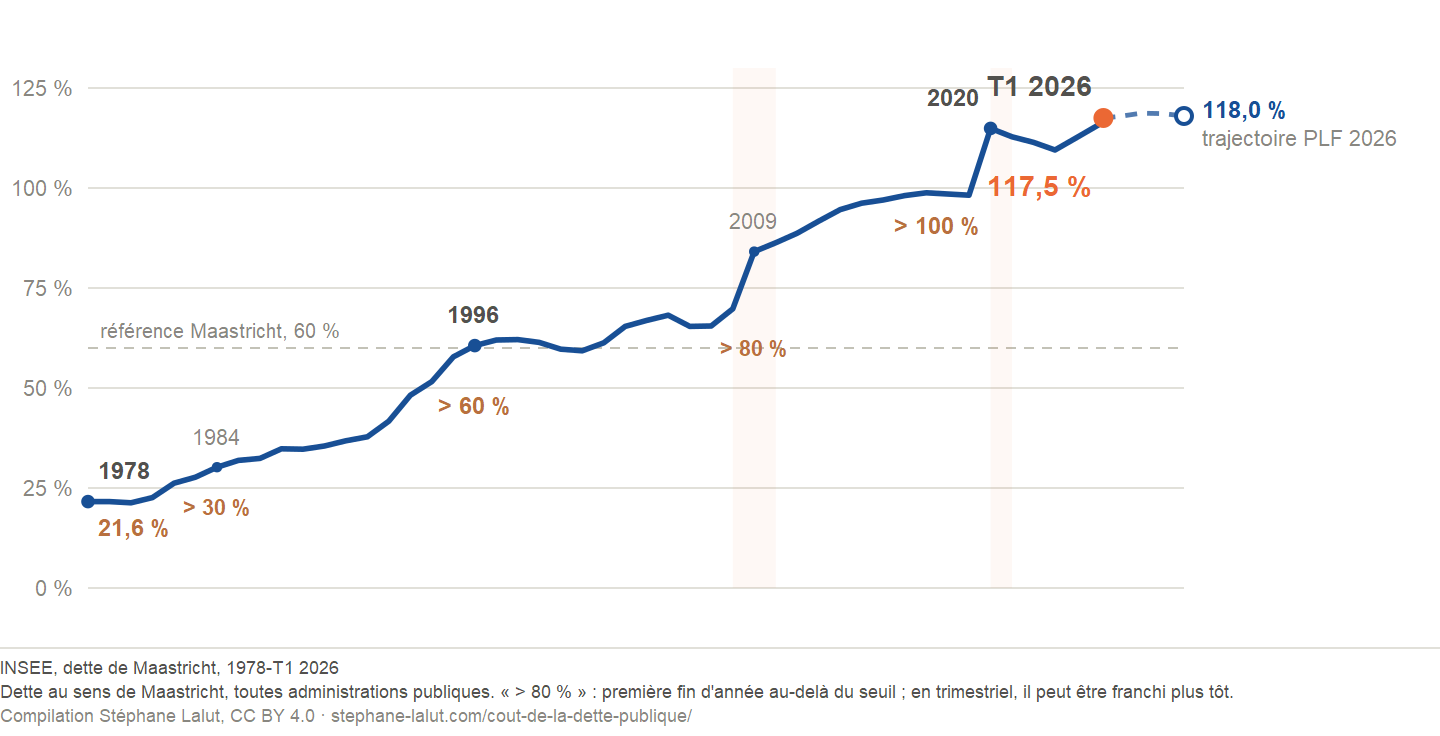
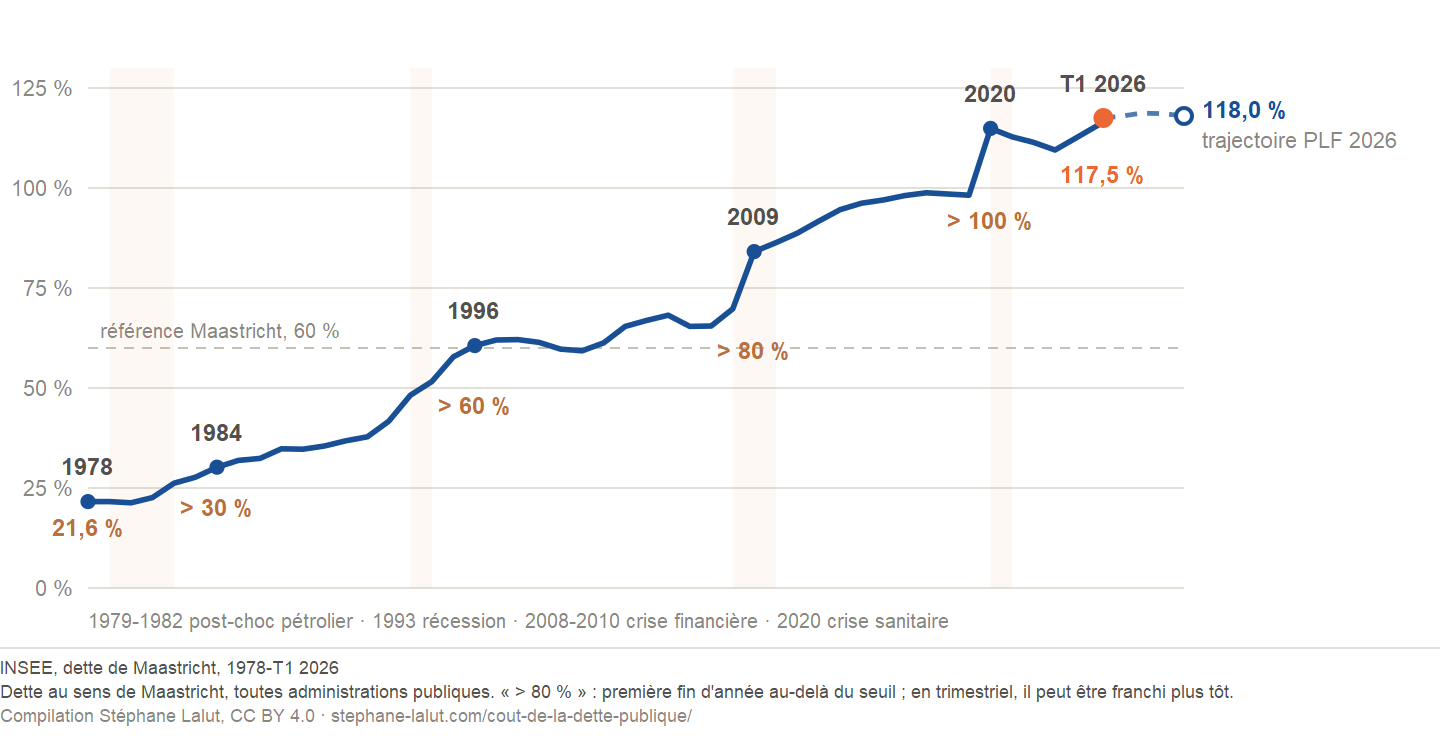
style(dette): quatre bandes datees, jalons egalises, etiquettes centrees
Decisions de l'auteur, 28/09 :

- QUATRE bandes, avec leurs dates : 1979-1982 post-choc petrolier,
  1993 recession, 2008-2010 crise financiere, 2020-2021 crise sanitaire ;
  une legende sous l'axe les nomme, pour que la figure reprise seule garde
  le sens de ses zones grisees.
- Ce sont les BANDES qui portent la structure : chaque jalon etant un point
  de bascule, tous les points bleus ont le meme diametre et toutes les dates
  la meme graisse et la meme taille. Seul le point contemporain, orange, se
  detache -- il n'est pas de la meme nature.
- Toutes les etiquettes sont CENTREES sur leur point, y compris « T1 2026 »
  au-dessus et « 117,5 % » en dessous : une date qui flotte a gauche de son
  marqueur ne le designe plus. L'anti-collision par changement d'ancrage
  disparait, les ecarts la rendent inutile.
- La mention « trajectoire PLF 2026 » passe sous la valeur d'arrivee :
  centree sur le pointille, elle heurtait « T1 2026 » au-dessus comme en
  dessous (deux rendus).

Effet de bord traite : le ciseau commence en 1995, ses bandes sont donc
bornees -- sans quoi les deux nouvelles se dessinaient hors cadre.

diff --git a/scripts/update_dette_insee.py b/scripts/update_dette_insee.py
@@ -562,7 +562,9 @@ def cartouche(w: int, y0: float, source: str, note_cle: str,
 # Bandes de crise, trait epais, valeur en pastille (choix de l'auteur, 28/09,
 # sur maquettes). Le fond situe les ruptures sans que le lecteur les cherche
 # dans le texte ; la pastille fait voyager la valeur cle avec l'image.
-CRISES = ((2008.0, 2010.0, "crise financière", "financial crisis"),
+CRISES = ((1979.0, 1982.0, "post-choc pétrolier", "post-oil-shock"),
+          (1993.0, 1994.0, "récession", "recession"),
+          (2008.0, 2010.0, "crise financière", "financial crisis"),
           (2020.0, 2021.0, "crise sanitaire", "pandemic"))
 BANDE = "#eb6834"
 # Orange ATTENUE des seuils anciens : l'orange sature est reserve au point
@@ -765,8 +767,12 @@ def build_svg(dette_pib: dict[str, float], d41_pib: dict[str, float],
     # dans celui du bas (choix de l'auteur, 28/09) : deux panneaux alignes sur le
     # meme axe temporel n'ont pas besoin de repeter le meme mot, et en haut la
     # courbe le frolait. Pose au-dessus de la ligne de base du panneau.
-    e += bandes_crise(lambda a: _x(a, t0, t1), ay1, ay0, lang, libelles=False)
-    e += bandes_crise(lambda a: _x(a, t0, t1), by1, by0, lang, bas=True)
+    # BORNES : depuis que la liste porte aussi 1979-1982 et 1993, une bande
+    # anterieure au debut du ciseau se dessinerait hors du cadre, a gauche.
+    e += bandes_crise(lambda a: _x(a, t0, t1), ay1, ay0, lang, libelles=False,
+                      x_min=t0, x_max=t1)
+    e += bandes_crise(lambda a: _x(a, t0, t1), by1, by0, lang, bas=True,
+                      x_min=t0, x_max=t1)
 
     # series (2,6 px, bouts ronds)
     e.append('<path d="%s" fill="none" stroke="%s" stroke-width="2.6" '
@@ -1260,9 +1266,12 @@ def build_svg_longue(annuel: dict, pct_courant: float, label_courant: str,
         e.append('<text x="%.1f" y="%.1f" font-family="%s" font-size="%d" '
                  'font-weight="600" fill="%s">%s%s</text>'
                  % (px + 9, py + 1, FONT, TY_ANNOT, COL_DETTE, nb(prev[-1][1]), U))
+        # SOUS la valeur d'arrivee, a droite du cercle : centree sur le pointille
+        # elle heurtait « T1 2026 », au-dessus comme en dessous (deux rendus).
+        # Ici elle nomme le trait sans disputer aucun aplomb.
         e.append('<text x="%.1f" y="%.1f" font-family="%s" font-size="%d" '
                  'fill="%s">%s</text>'
-                 % (px + 9, py + 15, FONT, TY_MINEUR, MUTED,
+                 % (px + 9, py + 16, FONT, TY_MINEUR, MUTED,
                     _esc("trajectoire PLF 2026" if lang == "fr"
                          else "2026 budget bill path")))
     e += bandes
@@ -1297,34 +1306,32 @@ def build_svg_longue(annuel: dict, pct_courant: float, label_courant: str,
     # cas a la main (il se deplacerait au prochain seuil), on replie a gauche
     # l'etiquette de tout repere dont le suivant est a moins de 95 px. Le
     # premier garde son ancrage : le replier le sortirait du cadre.
-    espacees = []
-    for i, (xv, yv, date, pct, anchor, majeur) in enumerate(reperes):
-        if 0 < i < len(reperes) - 1:
-            if X(reperes[i + 1][0]) - X(xv) < 95:
-                anchor = "end"
-        espacees.append((xv, yv, date, pct, anchor, majeur))
-    reperes = espacees
+    # Toutes les etiquettes sont CENTREES sur leur point (auteur, 28/09) : une
+    # date qui flotte a gauche de son marqueur ne le designe plus. Les ecarts
+    # entre jalons le permettent ; le controle est fait ci-dessous, au rendu.
+    reperes = [(xv, yv, date, pct, "middle", majeur)
+               for xv, yv, date, pct, anchor, majeur in reperes]
 
     for xv, yv, date, pct, anchor, majeur in reperes:
         px, py = X(xv), Y(yv)
         dernier = xv == reperes[-1][0]
+        # Meme diametre pour tous les points bleus : chaque jalon est un point de
+        # bascule, et c'est la BANDE qui dit lequel. Seul le point contemporain,
+        # en orange, se detache -- il n'est pas de la meme nature.
         e.append('<circle cx="%.1f" cy="%.1f" r="%s" fill="%s"/>'
-                 % (px, py, "5" if dernier else ("3.4" if majeur else "2.6"),
+                 % (px, py, "5" if dernier else "3.8",
                     COL_INTER if dernier else COL_DETTE))
         dx = 5 if anchor == "start" else (-5 if anchor == "end" else 0)
         e.append('<text x="%.1f" y="%.1f" font-family="%s" font-size="%d" '
                  'font-weight="%d" fill="%s" text-anchor="%s">%s</text>'
-                 % (px + dx, py - 11, FONT,
-                    TY_VALEUR - 1 if dernier else (TY_ANNOT if majeur else TY_MINEUR),
-                    700 if majeur or dernier else 500,
-                    INK2 if majeur or dernier else MUTED, anchor, date))
+                 % (px + dx, py - 13, FONT, TY_ANNOT, 700, INK2, anchor, date))
         # Le pourcentage doit etre SOUS la courbe, pas a une distance fixe du
         # point : la ou la pente est forte -- 2009, 2020 -- la ligne replonge
         # dans le texte quelques pixels plus loin. On prend donc le point le
         # plus bas de la courbe sur la LARGEUR REELLE de l'etiquette, et on se
         # pose en dessous. Mesure a l'ecran le 20/09 : « 80 % » etait traverse
         # par la courbe.
-        corps = TY_VALEUR - 1 if dernier else (TY_ANNOT if majeur else TY_MINEUR)
+        corps = TY_ANNOT
         larg = 0.58 * corps * len(pct)
         tx = px + dx
         gx0 = tx if anchor == "start" else (tx - larg if anchor == "end"
@@ -1349,6 +1356,18 @@ def build_svg_longue(annuel: dict, pct_courant: float, label_courant: str,
     # Pas de libelles d'axe horizontal : les deux bornes de la periode sont
     # deja portees, en gras, par le premier et le dernier repere. Les repeter
     # sous l'axe ferait lire deux fois la meme date.
+
+    # LEGENDE des bandes, sous l'axe : une figure reprise seule doit dire ce que
+    # ses zones grisees signifient. Ordre chronologique, gris, une seule ligne.
+    lg = [(a1b, a2b, (lf if lang == "fr" else le))
+          for a1b, a2b, lf, le in CRISES if a2b >= x0 and a1b <= x1]
+    if lg:
+        bouts = []
+        for a1b, a2b, lib in lg:
+            an = "%d" % int(a1b) if int(a2b) - int(a1b) <= 1 else "%d-%d" % (int(a1b), int(a2b))
+            bouts.append("%s %s" % (an, lib))
+        e.append('<text x="%.1f" y="%.1f" font-family="%s" font-size="%d" fill="%s">%s</text>'
+                 % (ml, h - 6, FONT, TY_MINEUR - 1, MUTED, _esc("  ·  ".join(bouts))))
 
     src = LABELS_CARTOUCHE[lang]["src_longue"]
     e += cartouche(w, h + 4, src % (ans[0], label_courant), "longue", lang)
